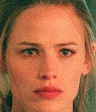
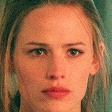
update

diff --git a/demo.py b/demo.py
@@ -3,7 +3,7 @@ import numpy as np
 from PIL import Image
 
 from mtcnn.detector import detect_faces
-from warp_and_crop_face import warp_and_crop_face
+from warp_and_crop_face import warp_and_crop_face, get_reference_facial_points
 
 if __name__ == "__main__":
     for i in range(10):
@@ -14,7 +14,17 @@ if __name__ == "__main__":
         _, facial5points = detect_faces(img)
         facial5points = np.reshape(facial5points[0], (2, 5))
         crop_size = (112, 112)
-        dst_img = warp_and_crop_face(raw, facial5points)
+
+        default_square = True
+        inner_padding_factor = 0
+        outer_padding = (0, 0)
+        output_size = (112, 112)
+
+        # get the reference 5 landmarks position in the crop settings
+        reference_5pts = get_reference_facial_points(
+            output_size, inner_padding_factor, outer_padding, default_square)
+
+        dst_img = warp_and_crop_face(raw, facial5points, reference_5pts, crop_size)
         cv.imwrite('images/{}_warped.jpg'.format(i), dst_img)
         img = cv.resize(raw, (224, 224))
         cv.imwrite('images/{}_img.jpg'.format(i), img)
